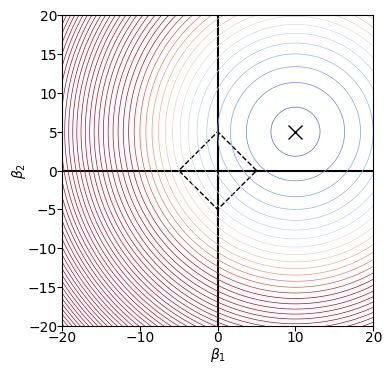
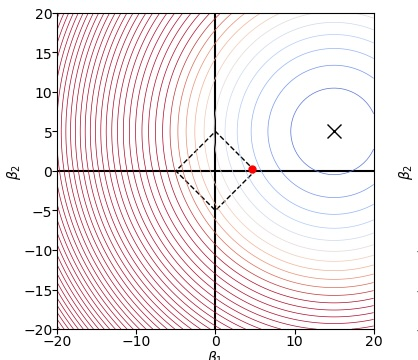
render

diff --git a/docs/posts/why-l1-loss-encourage-coefficients-to-shrink-to-zero/index.html b/docs/posts/why-l1-loss-encourage-coefficients-to-shrink-to-zero/index.html
@@ -182,6 +182,9 @@ window.Quarto = {
                 <div class="quarto-category">basics</div>
                 <div class="quarto-category">loss</div>
                 <div class="quarto-category">l1</div>
+                <div class="quarto-category">l2</div>
+                <div class="quarto-category">lasso</div>
+                <div class="quarto-category">ridge</div>
               </div>
                   </div>
   </div>
@@ -411,7 +414,7 @@ Loss(\beta_1,\beta_2 | c_x, c_y)=2{(\beta_1 - c_x)}^2 + 2{(\beta_2 - c_y)}^2 + 1
 </div>
 </div>
 </div>
-<p>The corresponding 2D visualizations similar to the figure given by the Elements of Statistical Learning book:</p>
+<p>The corresponding 2D visualizations that are similar to the ones given by the Elements of Statistical Learning book:</p>
 <div id="137f4e2a-1089-4378-b1fd-6c9048145602" class="cell" data-execution_count="5">
 <details class="code-fold">
 <summary>code for plot2d</summary>
@@ -493,7 +496,7 @@ Loss(\beta_1,\beta_2 | c_x, c_y)=2{(\beta_1 - c_x)}^2 + 2{(\beta_2 - c_y)}^2 + 1
 </div>
 </div>
 </div>
-<p>Then it is more optimal to reduce the constraint region (i.e., the diamond) until they just touch in a single point as shown below. Note that a contour has the same loss along its points.</p>
+<p>Then it is more optimal to reduce the constraint region (i.e., the diamond) until they touch in a single point as shown below. Note that a contour has the same loss along its points.</p>
 <div id="3fc2a0e8-cd8f-4373-8346-80f203ee3e2a" class="cell" data-execution_count="9">
 <div class="sourceCode cell-code" id="cb9"><pre class="sourceCode python code-with-copy"><code class="sourceCode python"><span id="cb9-1"><a href="#cb9-1" aria-hidden="true" tabindex="-1"></a>plot_reg_and_circle(Reg.L1, t<span class="op">=</span>(np.sqrt(<span class="dv">50</span>)<span class="op">-</span><span class="dv">4</span>) <span class="op">*</span> np.sqrt(<span class="dv">2</span>), cx<span class="op">=</span><span class="dv">5</span>, cy<span class="op">=</span><span class="dv">5</span>, radius<span class="op">=</span><span class="dv">4</span>)</span></code><button title="Copy to Clipboard" class="code-copy-button"><i class="bi"></i></button></pre></div>
 <div class="cell-output cell-output-display">
@@ -1393,7 +1396,7 @@ AAAAAAAAACxpbHN0AAAAJKl0b28AAAAcZGF0YQAAAAEAAAAATGF2ZjYxLjEuMTAw
 </video>
 </div>
 </div>
-<p>The above animation illustrates all tangent circle trajectories. The circle is green when it touches the diamond at the corner, and it is blue when it touches at other points. The sum of the lengths of all blue (touching at other points) trajectories is given by <span class="math inline">\(4\times \sqrt{2}\times t\)</span>, while the sum of the lengths of all green (touching at the corners) trajectories is given by <span class="math inline">\(2\pi \times r\)</span>, where <code>t</code> is the constraint and <code>r</code> is the radius of the circle. This means that it is likely to touch at the corners when <code>t</code> is sufficiently small or <code>r</code> is sufficiently high. We illustrate one of the such cases below:</p>
+<p>The animation above illustrates all tangent circle trajectories. The circle is green when it touches the diamond at the corner, and it is blue when it touches at other points. The total length of all blue (touching at other points) trajectories is given by <span class="math inline">\(4\times \sqrt{2}\times t\)</span>, while the total length of all green (touching at the corners) trajectories is given by <span class="math inline">\(2\pi \times r\)</span>, where <code>t</code> is the constraint and <code>r</code> is the radius of the circle. This means that it is likely to touch at the corners when <code>t</code> is sufficiently small or <code>r</code> is sufficiently high. We illustrate one of the such cases below:</p>
 <div id="6baa7f75-89c4-4604-b9b1-5484bf3e3a58" class="cell" data-execution_count="12">
 <div class="sourceCode cell-code" id="cb12"><pre class="sourceCode python code-with-copy"><code class="sourceCode python"><span id="cb12-1"><a href="#cb12-1" aria-hidden="true" tabindex="-1"></a>HTML(html5_video_l1_tangent_circles(t<span class="op">=</span><span class="dv">3</span>, radius<span class="op">=</span><span class="dv">10</span>))</span></code><button title="Copy to Clipboard" class="code-copy-button"><i class="bi"></i></button></pre></div>
 <div class="cell-output cell-output-display" data-execution_count="12">

diff --git a/docs/index.html b/docs/index.html
@@ -187,7 +187,7 @@ window.Quarto = {
 <!-- margin-sidebar -->
     <div id="quarto-margin-sidebar" class="sidebar margin-sidebar">
         
-    <h5 class="quarto-listing-category-title">Categories</h5><div class="quarto-listing-category category-default"><div class="category" data-category="">All <span class="quarto-category-count">(4)</span></div><div class="category" data-category="autoencoder">autoencoder <span class="quarto-category-count">(1)</span></div><div class="category" data-category="basics">basics <span class="quarto-category-count">(1)</span></div><div class="category" data-category="diffusion">diffusion <span class="quarto-category-count">(3)</span></div><div class="category" data-category="l1">l1 <span class="quarto-category-count">(1)</span></div><div class="category" data-category="loss">loss <span class="quarto-category-count">(1)</span></div><div class="category" data-category="paper">paper <span class="quarto-category-count">(3)</span></div><div class="category" data-category="stable">stable <span class="quarto-category-count">(1)</span></div></div></div>
+    <h5 class="quarto-listing-category-title">Categories</h5><div class="quarto-listing-category category-default"><div class="category" data-category="">All <span class="quarto-category-count">(4)</span></div><div class="category" data-category="autoencoder">autoencoder <span class="quarto-category-count">(1)</span></div><div class="category" data-category="basics">basics <span class="quarto-category-count">(1)</span></div><div class="category" data-category="diffusion">diffusion <span class="quarto-category-count">(3)</span></div><div class="category" data-category="l1">l1 <span class="quarto-category-count">(1)</span></div><div class="category" data-category="l2">l2 <span class="quarto-category-count">(1)</span></div><div class="category" data-category="lasso">lasso <span class="quarto-category-count">(1)</span></div><div class="category" data-category="loss">loss <span class="quarto-category-count">(1)</span></div><div class="category" data-category="paper">paper <span class="quarto-category-count">(3)</span></div><div class="category" data-category="ridge">ridge <span class="quarto-category-count">(1)</span></div><div class="category" data-category="stable">stable <span class="quarto-category-count">(1)</span></div></div></div>
 <!-- main -->
 <main class="content quarto-banner-title-block column-page-left" id="quarto-document-content">
 
@@ -201,7 +201,7 @@ window.Quarto = {
 
 <div class="quarto-listing quarto-listing-container-default" id="listing-listing">
 <div class="list quarto-listing-default">
-<div class="quarto-post image-right" data-index="0" data-categories="basics,loss,l1" data-listing-date-sort="1735257600000" data-listing-file-modified-sort="1735506651032" data-listing-date-modified-sort="NaN" data-listing-reading-time-sort="5" data-listing-word-count-sort="955">
+<div class="quarto-post image-right" data-index="0" data-categories="basics,loss,l1,l2,lasso,ridge" data-listing-date-sort="1735257600000" data-listing-file-modified-sort="1735515224507" data-listing-date-modified-sort="NaN" data-listing-reading-time-sort="5" data-listing-word-count-sort="952">
 <div class="thumbnail">
 <p><a href="./posts/why-l1-loss-encourage-coefficients-to-shrink-to-zero/index.html" class="no-external"></a></p><a href="./posts/why-l1-loss-encourage-coefficients-to-shrink-to-zero/index.html" class="no-external">
 <p><img loading="lazy" src="./posts/why-l1-loss-encourage-coefficients-to-shrink-to-zero/images/image.jpg" class="thumbnail-image"></p>
@@ -223,6 +223,15 @@ loss
 </div>
 <div class="listing-category" onclick="window.quartoListingCategory('l1'); return false;">
 l1
+</div>
+<div class="listing-category" onclick="window.quartoListingCategory('l2'); return false;">
+l2
+</div>
+<div class="listing-category" onclick="window.quartoListingCategory('lasso'); return false;">
+lasso
+</div>
+<div class="listing-category" onclick="window.quartoListingCategory('ridge'); return false;">
+ridge
 </div>
 </div>
 <div class="listing-description">
